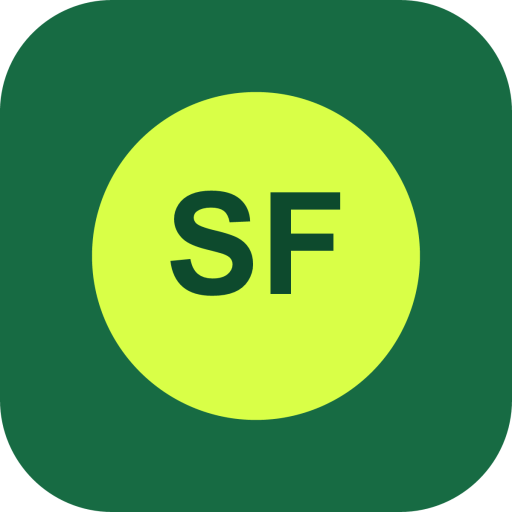
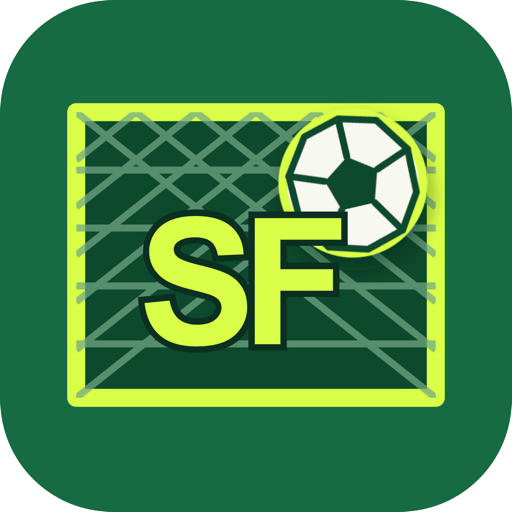
SF logosuna gol ağı ve futbol topu ekle

diff --git a/styles.css b/styles.css
@@ -27,7 +27,7 @@ button { cursor: pointer; }
 .auth-brand { display: flex; align-items: center; gap: 22px; color: white; }
 .auth-brand p { margin: 8px 0 0; opacity: .76; font-size: clamp(16px, 2vw, 22px); }
 .brand-name { font-family: "Anta", var(--font); font-size: clamp(40px, 6vw, 76px); letter-spacing: -.02em; line-height: .9; }
-.brand-mark { width: 96px; aspect-ratio: 1; border-radius: 24px; display: grid; place-items: center; background: var(--lime); color: var(--brand-dark); font: 900 42px/1 "Anta", sans-serif; letter-spacing: -.08em; transform: skew(-6deg); box-shadow: 0 16px 40px rgba(0,0,0,.18); }
+.brand-mark { width: 96px; aspect-ratio: 1; border-radius: 24px; display: grid; place-items: center; background: var(--brand) url("sasa-f-icon.svg?v=2026.07.24.108") center/cover no-repeat; color: transparent; font: 900 42px/1 "Anta", sans-serif; letter-spacing: -.08em; box-shadow: 0 16px 40px rgba(0,0,0,.18); }
 .brand-mark.small { width: 38px; border-radius: 10px; font-size: 17px; box-shadow: none; }
 .auth-card { background: var(--panel); border-radius: 22px; padding: clamp(24px, 5vw, 44px); display: grid; gap: 20px; box-shadow: 0 24px 70px rgba(0,0,0,.2); }
 .auth-card h1 { margin: 8px 0 6px; font-size: clamp(28px, 4vw, 42px); }
@@ -293,7 +293,7 @@ dialog::backdrop { background: rgba(8,23,14,.62); backdrop-filter: blur(3px); }
 .toast { position: fixed; right: 22px; bottom: 22px; z-index: 100; max-width: 360px; padding: 13px 17px; border-radius: 11px; color: white; background: var(--ink); box-shadow: var(--shadow); opacity: 0; transform: translateY(12px); pointer-events: none; transition: .22s ease; }
 .toast.show { opacity: 1; transform: translateY(0); }
 .install-prompt { position: fixed; right: 22px; bottom: 22px; z-index: 90; display: grid; grid-template-columns: 48px minmax(0, 1fr); gap: 12px 14px; width: min(470px, calc(100% - 32px)); padding: 18px; border: 1px solid rgba(255,255,255,.12); border-radius: 18px; color: white; background: linear-gradient(135deg, #0b1510, #123a27); box-shadow: 0 22px 60px rgba(4,22,13,.34); }
-.install-prompt-icon { display: grid; place-items: center; width: 48px; height: 48px; border-radius: 13px; color: var(--brand-dark); background: var(--lime); font-family: "Anta", sans-serif; font-size: 18px; }
+.install-prompt-icon { display: grid; place-items: center; width: 48px; height: 48px; border-radius: 13px; color: transparent; background: var(--brand) url("sasa-f-icon.svg?v=2026.07.24.108") center/cover no-repeat; font-family: "Anta", sans-serif; font-size: 18px; }
 .install-prompt-copy { display: grid; gap: 4px; align-content: center; }
 .install-prompt-copy strong { font-size: 16px; }
 .install-prompt-copy span { color: rgba(255,255,255,.7); font-size: 13px; line-height: 1.4; }

diff --git a/index.html b/index.html
@@ -7,12 +7,12 @@
   <meta name="apple-mobile-web-app-capable" content="yes">
   <meta name="apple-mobile-web-app-status-bar-style" content="black-translucent">
   <title>SASA-F Futbol Okulu Yönetim Sistemi</title>
-  <link rel="manifest" href="manifest.webmanifest?v=2026.07.24.107">
-  <link rel="icon" href="sasa-f-icon.svg" type="image/svg+xml">
+  <link rel="manifest" href="manifest.webmanifest?v=2026.07.24.108">
+  <link rel="icon" href="sasa-f-icon.svg?v=2026.07.24.108" type="image/svg+xml">
   <link rel="preconnect" href="https://fonts.googleapis.com">
   <link rel="preconnect" href="https://fonts.gstatic.com" crossorigin>
   <link href="https://fonts.googleapis.com/css2?family=Anta&family=Roboto:wght@400;500;700;900&display=swap" rel="stylesheet">
-  <link rel="stylesheet" href="styles.css?v=2026.07.24.107">
+  <link rel="stylesheet" href="styles.css?v=2026.07.24.108">
 </head>
 <body>
   <section class="auth-screen" id="authScreen">
@@ -175,9 +175,9 @@
 
   <div class="toast" id="toast" role="status" aria-live="polite"></div>
   <script src="https://cdn.jsdelivr.net/npm/@supabase/supabase-js@2"></script>
-  <script src="students-seed.js?v=2026.07.24.107"></script>
-  <script src="local-db.js?v=2026.07.24.107"></script>
-  <script src="supabase-data.js?v=2026.07.24.107"></script>
-  <script src="app.js?v=2026.07.24.107"></script>
+  <script src="students-seed.js?v=2026.07.24.108"></script>
+  <script src="local-db.js?v=2026.07.24.108"></script>
+  <script src="supabase-data.js?v=2026.07.24.108"></script>
+  <script src="app.js?v=2026.07.24.108"></script>
 </body>
 </html>

diff --git a/app.js b/app.js
@@ -1,5 +1,5 @@
-const APP_VERSION = '2026.07.24.107';
-const ANDROID_APK_URL = 'https://github.com/Vetmaster/sporx-futbol-okulu/releases/download/v1.0.0-beta/SASA-F-v1.0-beta.apk';
+const APP_VERSION = '2026.07.24.108';
+const ANDROID_APK_URL = 'https://github.com/Vetmaster/sporx-futbol-okulu/releases/download/v1.0.1-beta/SASA-F-v1.0.1-beta.apk';
 const INSTALL_PROMPT_DISMISS_KEY = 'sasa_install_prompt_dismissed_v1';
 const SUPABASE_URL = 'https://tezeflsiljqprrqbsypl.supabase.co';
 const SUPABASE_PUBLISHABLE_KEY = 'sb_publishable_b8NKvXEXTLAOz2o1L8XN9w_QQVuMUJx';

diff --git a/service-worker.js b/service-worker.js
@@ -13,8 +13,8 @@ self.addEventListener('push', event => {
 
   event.waitUntil(self.registration.showNotification(payload.title || 'SASA-F', {
     body: payload.body || 'Yeni bir bildiriminiz var.',
-    icon: './sasa-f-icon.svg',
-    badge: './sasa-f-icon.svg',
+    icon: './sasa-f-icon.svg?v=2026.07.24.108',
+    badge: './sasa-f-icon.svg?v=2026.07.24.108',
     tag: payload.tag || 'sasa-f-notification',
     renotify: true,
     data: { url: payload.url || NOTIFICATION_URL }
